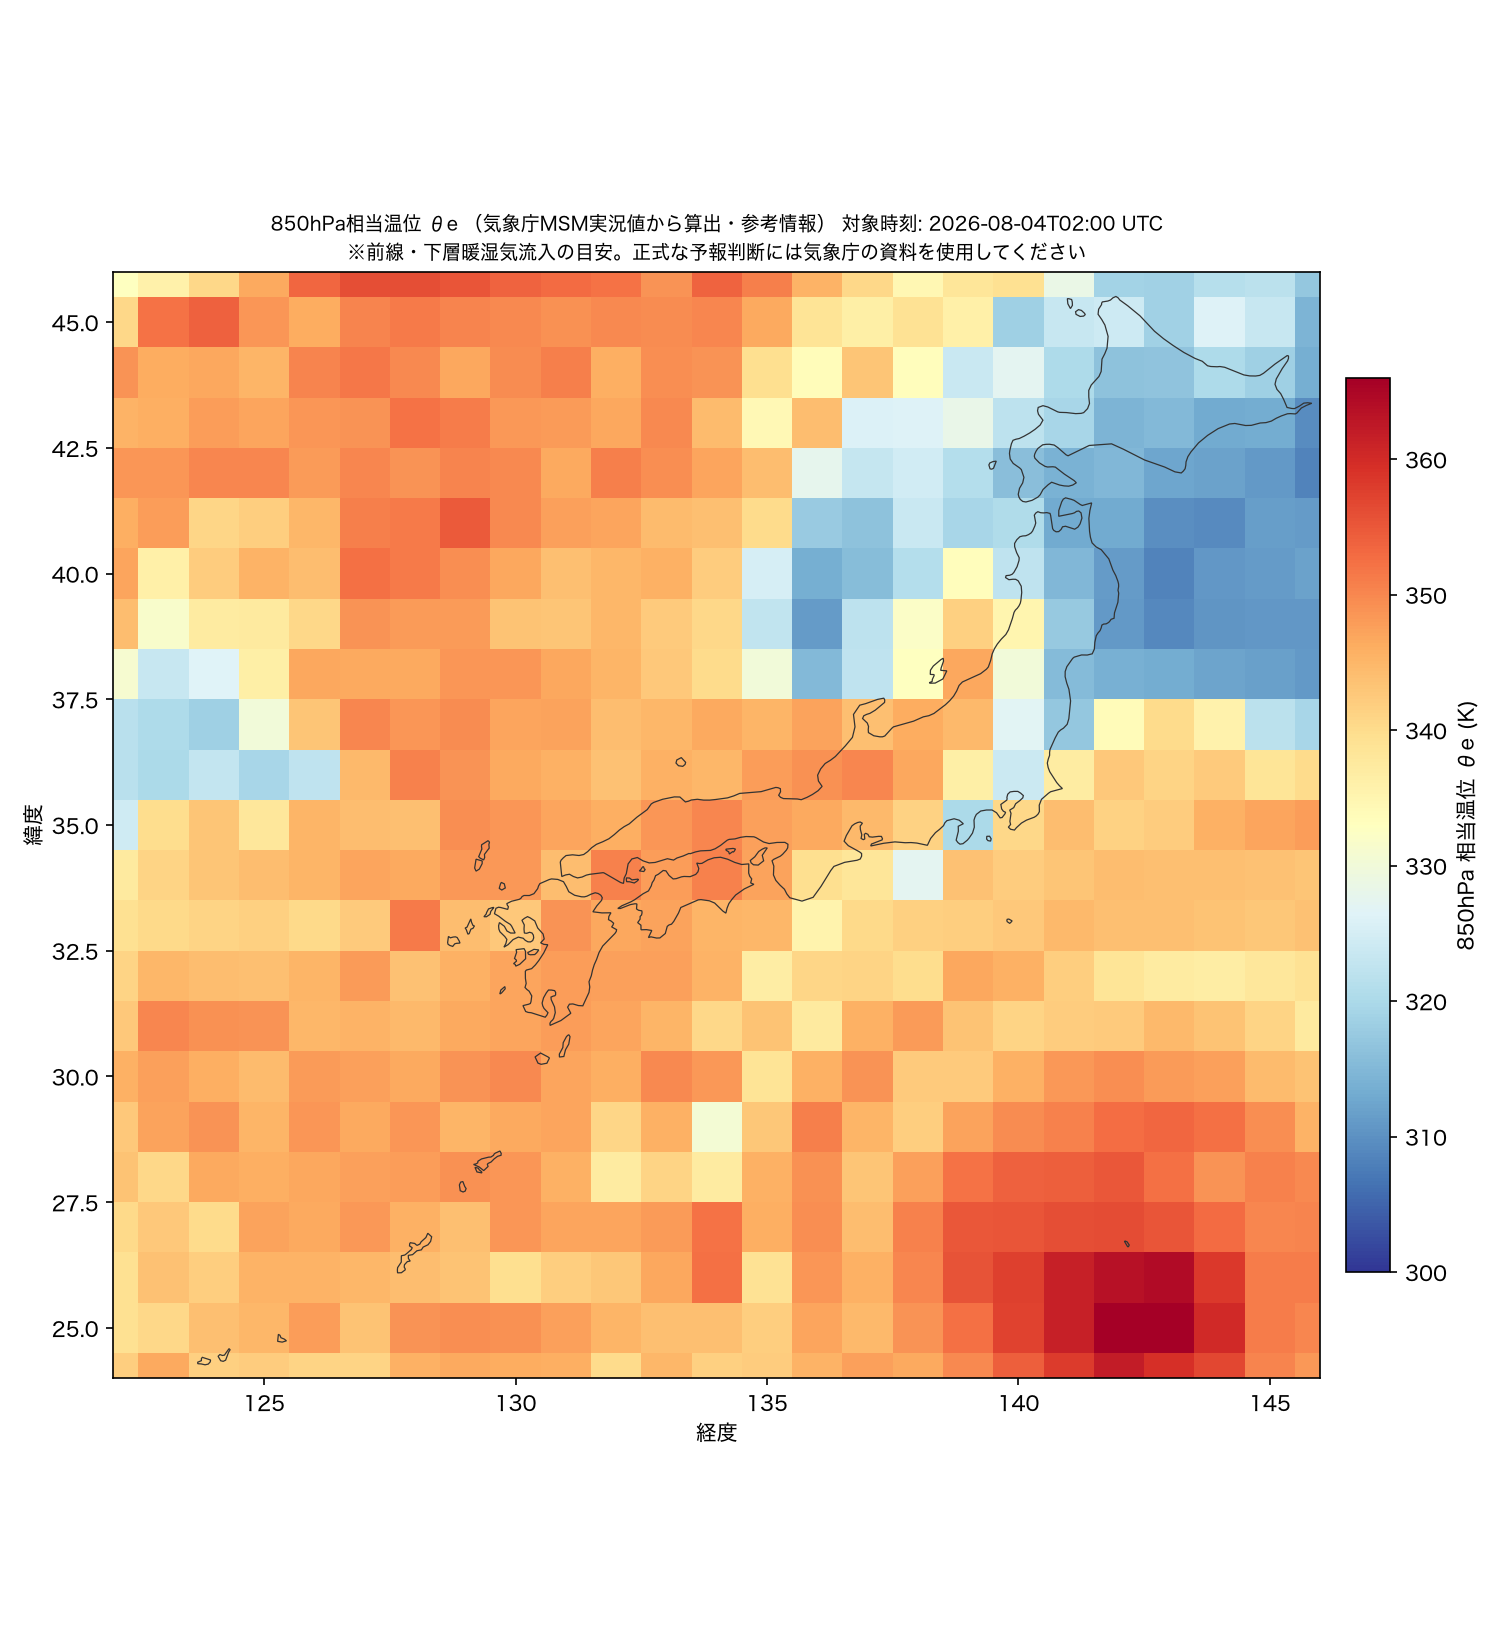
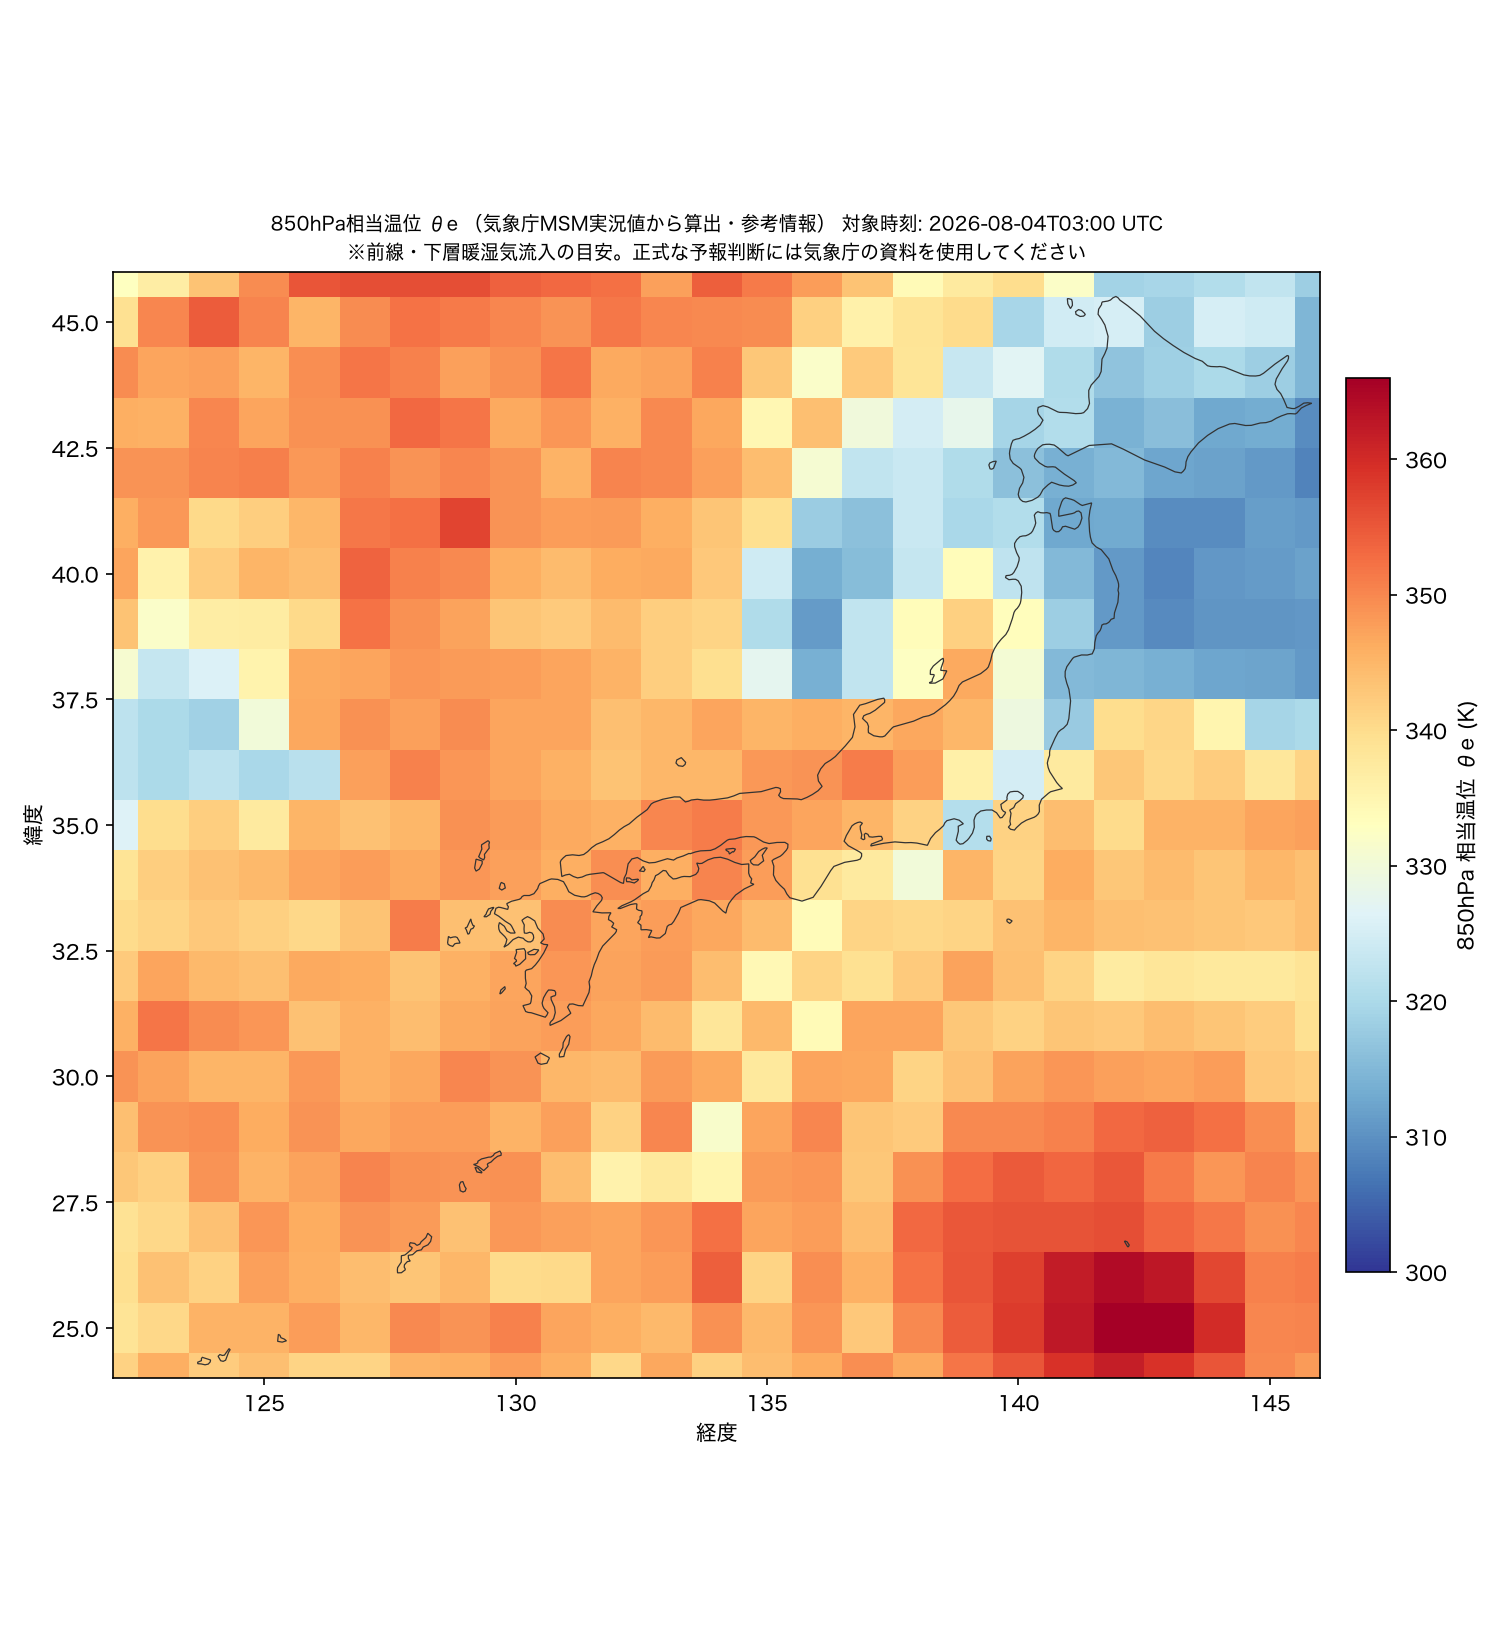
Update VMC map

diff --git a/index.html b/index.html
@@ -3,7 +3,7 @@
 <head>
 <meta charset="utf-8">
 <meta name="viewport" content="width=device-width, initial-scale=1">
-<title>VFR VMC 維持可否マップ (対象時刻: 2026-08-04T02:00 UTC)</title>
+<title>VFR VMC 維持可否マップ (対象時刻: 2026-08-04T03:00 UTC)</title>
 <style>
   :root {
     --bg: #eef1f5; --surface: #ffffff; --text: #1b2530; --text-muted: #5b6b7d;
@@ -95,7 +95,7 @@
     <h1>VFR VMC 維持可否マップ</h1>
     <p class="subtitle">日本全国、地形と雲底の隙間からVMC(視認気象状態)を維持できるかを判定した参考マップです。v1簡易判定につき、実運航の判断には正式な気象情報を使用してください。</p>
     <div class="chips">
-      <span class="chip">気象予報 対象時刻 <b>2026-08-04T02:00 UTC</b></span>
+      <span class="chip">気象予報 対象時刻 <b>2026-08-04T03:00 UTC</b></span>
       <span class="chip">下層悪天予想図 有効時刻 <b>0300 UTC 04 Aug 2026</b></span>
     </div>
   </header>
